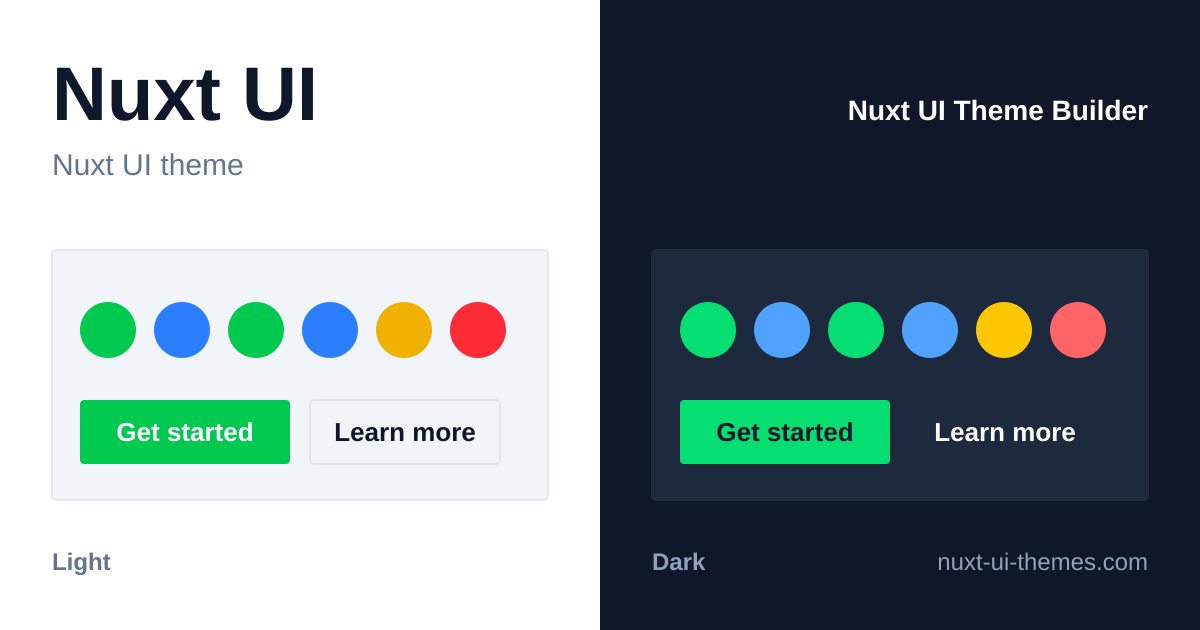
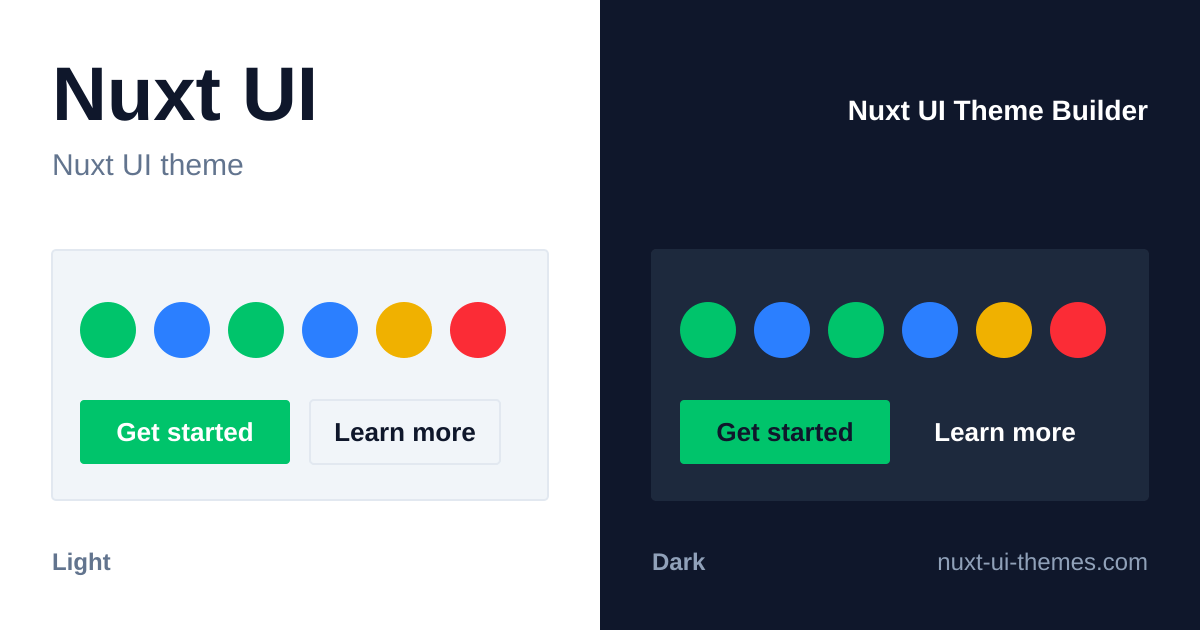
fix(editor): match the nuxt ui preset to nuxt ui's real colors (#44)
Use the Nuxt brand green (#00DC82 at 400) that Nuxt UI's docs and
starter templates ship instead of Tailwind's green, via a nuxt-green
custom palette for primary and success. Drop the dark-mode 400 shade
shift, which stacked on Nuxt UI's own 400 dark mapping and rendered
every semantic color one step too light (green-300 instead of 400).

Claude-Session: https://claude.ai/code/session_011YoM6G9iJHr15ik84L9C7r

diff --git a/tests/unit/utils/presets.test.ts b/tests/unit/utils/presets.test.ts
@@ -5,6 +5,7 @@ import {
   presetSlug,
 } from "~/utils/presets";
 import { ThemeConfigSchema } from "~/types/theme";
+import { getPaletteShadeMap } from "~/utils/customPalettes";
 
 describe("BUILT_IN_PRESETS", () => {
   it("contains at least one preset", () => {
@@ -63,6 +64,53 @@ describe("BUILT_IN_PRESETS", () => {
     expect(nuxtUi).toBeDefined();
     const result = ThemeConfigSchema.safeParse(nuxtUi!.config);
     expect(result.success).toBe(true);
+  });
+
+  it("Nuxt UI preset matches Nuxt UI's shipped color defaults", () => {
+    const config = BUILT_IN_PRESETS.find((p) => p.name === "Nuxt UI")!.config;
+    expect(config.colors).toMatchObject({
+      secondary: "blue",
+      info: "blue",
+      warning: "yellow",
+      error: "red",
+    });
+    expect(config.neutral).toBe("slate");
+    expect(config.radius).toBe(0.25);
+    // Nuxt UI itself uses the 500 shade in light mode and 400 in dark mode, so
+    // the preset must not shift either (a dark "400" would render 300).
+    expect(Object.values(config.colorShades)).toEqual(Array(6).fill("500"));
+    expect(Object.values(config.darkColorShades)).toEqual(Array(6).fill("500"));
+  });
+
+  it("Nuxt UI preset uses the Nuxt brand green, not Tailwind's green", () => {
+    const config = BUILT_IN_PRESETS.find((p) => p.name === "Nuxt UI")!.config;
+    const nuxtGreen: Record<string, string> = {
+      "50": "#effdf5",
+      "100": "#d9fbe8",
+      "200": "#b3f5d1",
+      "300": "#75edae",
+      "400": "#00dc82",
+      "500": "#00c16a",
+      "600": "#00a155",
+      "700": "#007f45",
+      "800": "#016538",
+      "900": "#0a5331",
+      "950": "#052e16",
+    };
+    const channels = (hex: string) =>
+      [1, 3, 5].map((i) => parseInt(hex.slice(i, i + 2), 16));
+
+    for (const colors of [config.colors, config.darkColors]) {
+      expect(colors.primary).toBe(colors.success);
+      const shades = getPaletteShadeMap(colors.primary, config.customPalettes);
+      expect(shades["400"]).toBe("#00dc82");
+      for (const [shade, expected] of Object.entries(nuxtGreen)) {
+        const actual = channels(shades[shade]!);
+        channels(expected).forEach((value, i) =>
+          expect(Math.abs(actual[i]! - value)).toBeLessThanOrEqual(8),
+        );
+      }
+    }
   });
 
   it("Default preset exists and passes schema validation", () => {

diff --git a/app/utils/presets.ts b/app/utils/presets.ts
@@ -303,29 +303,35 @@ export const BUILT_IN_PRESETS: ThemePreset[] = [
   },
 
   // ── 2. Nuxt UI (green) ────────────────────────────────────────────────
-  // Matches the official Nuxt UI out-of-the-box defaults.
+  // Matches the official Nuxt UI out-of-the-box defaults. Nuxt UI's docs and
+  // starter templates replace Tailwind's green with the Nuxt brand green
+  // (400 = #00DC82, 500 = #00C16A), so primary and success use a custom
+  // palette generated from #00DC82, which reproduces that scale.
   {
     name: "Nuxt UI",
     description:
-      "Official Nuxt UI defaults. Green primary, blue secondary, slate neutral with standard shading.",
+      "Official Nuxt UI defaults. Nuxt green primary, blue secondary, slate neutral with standard shading.",
     category: "Essentials",
     builtIn: true,
     config: preset({
       colors: {
-        primary: "green",
+        primary: "nuxt-green",
         secondary: "blue",
-        success: "green",
+        success: "nuxt-green",
         info: "blue",
         warning: "yellow",
         error: "red",
       },
+      customPalettes: [{ name: "nuxt-green", color: "#00dc82" }],
       colorShades: SHADES_DEFAULT,
       neutral: "slate",
       radius: 0.25,
       font: "Public Sans",
       lightOverrides: LIGHT_STANDARD,
       darkOverrides: DARK_STANDARD,
-      darkColorShades: SHADES_BRIGHT,
+      // No dark shade shift: Nuxt UI already maps --ui-primary to the 400
+      // shade under `.dark`, and a "400" here would shift it again to 300.
+      darkColorShades: SHADES_DEFAULT,
     }),
   },
 

diff --git a/tests/unit/stores/theme.test.ts b/tests/unit/stores/theme.test.ts
@@ -631,9 +631,21 @@ describe("useThemeStore", () => {
       it("keeps custom palettes when loading a built-in preset", () => {
         addBrand();
         store.loadPreset(BUILT_IN_PRESETS[1]!);
-        expect(store.config.customPalettes).toEqual([
-          { name: "brand", color: YELLOW },
-        ]);
+        expect(store.config.customPalettes).toContainEqual({
+          name: "brand",
+          color: YELLOW,
+        });
+      });
+
+      it("lets a built-in preset's palette replace a same-named custom palette", () => {
+        // The preset's roles depend on its own definition, so it wins the clash
+        expect(store.addCustomPalette("nuxt-green", YELLOW)).toEqual({
+          success: true,
+        });
+        store.loadPreset(BUILT_IN_PRESETS.find((p) => p.name === "Nuxt UI")!);
+        expect(
+          store.config.customPalettes?.filter((p) => p.name === "nuxt-green"),
+        ).toEqual([{ name: "nuxt-green", color: "#00dc82" }]);
       });
 
       it("keeps custom palettes when randomizing", () => {
@@ -715,7 +727,8 @@ describe("useThemeStore", () => {
         (a, b) => JSON.stringify(b.config).length - JSON.stringify(a.config).length,
       )[0]!;
       store.loadPreset(largest);
-      for (let i = 0; i < CUSTOM_PALETTE_MAX; i++) {
+      const room = CUSTOM_PALETTE_MAX - (largest.config.customPalettes?.length ?? 0);
+      for (let i = 0; i < room; i++) {
         const name = `p${i}`.padEnd(CUSTOM_PALETTE_NAME_MAX_LENGTH, "x");
         expect(store.addCustomPalette(name, "#f5c518").success).toBe(true);
       }
